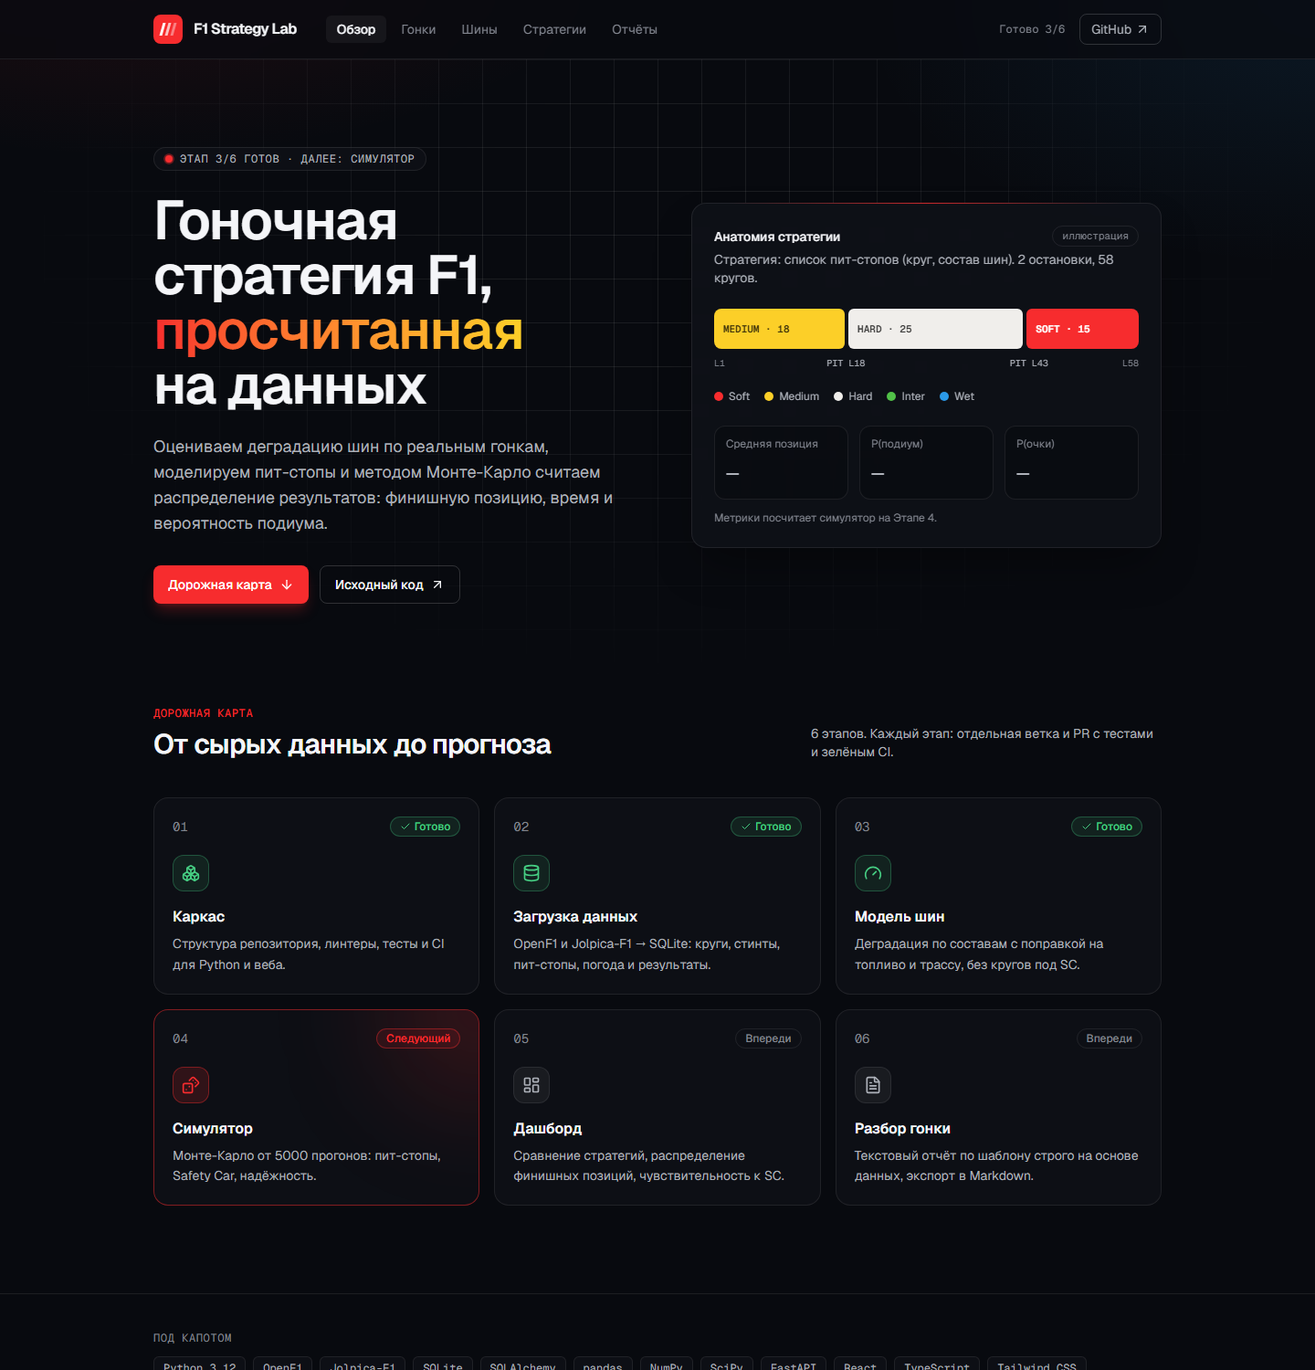
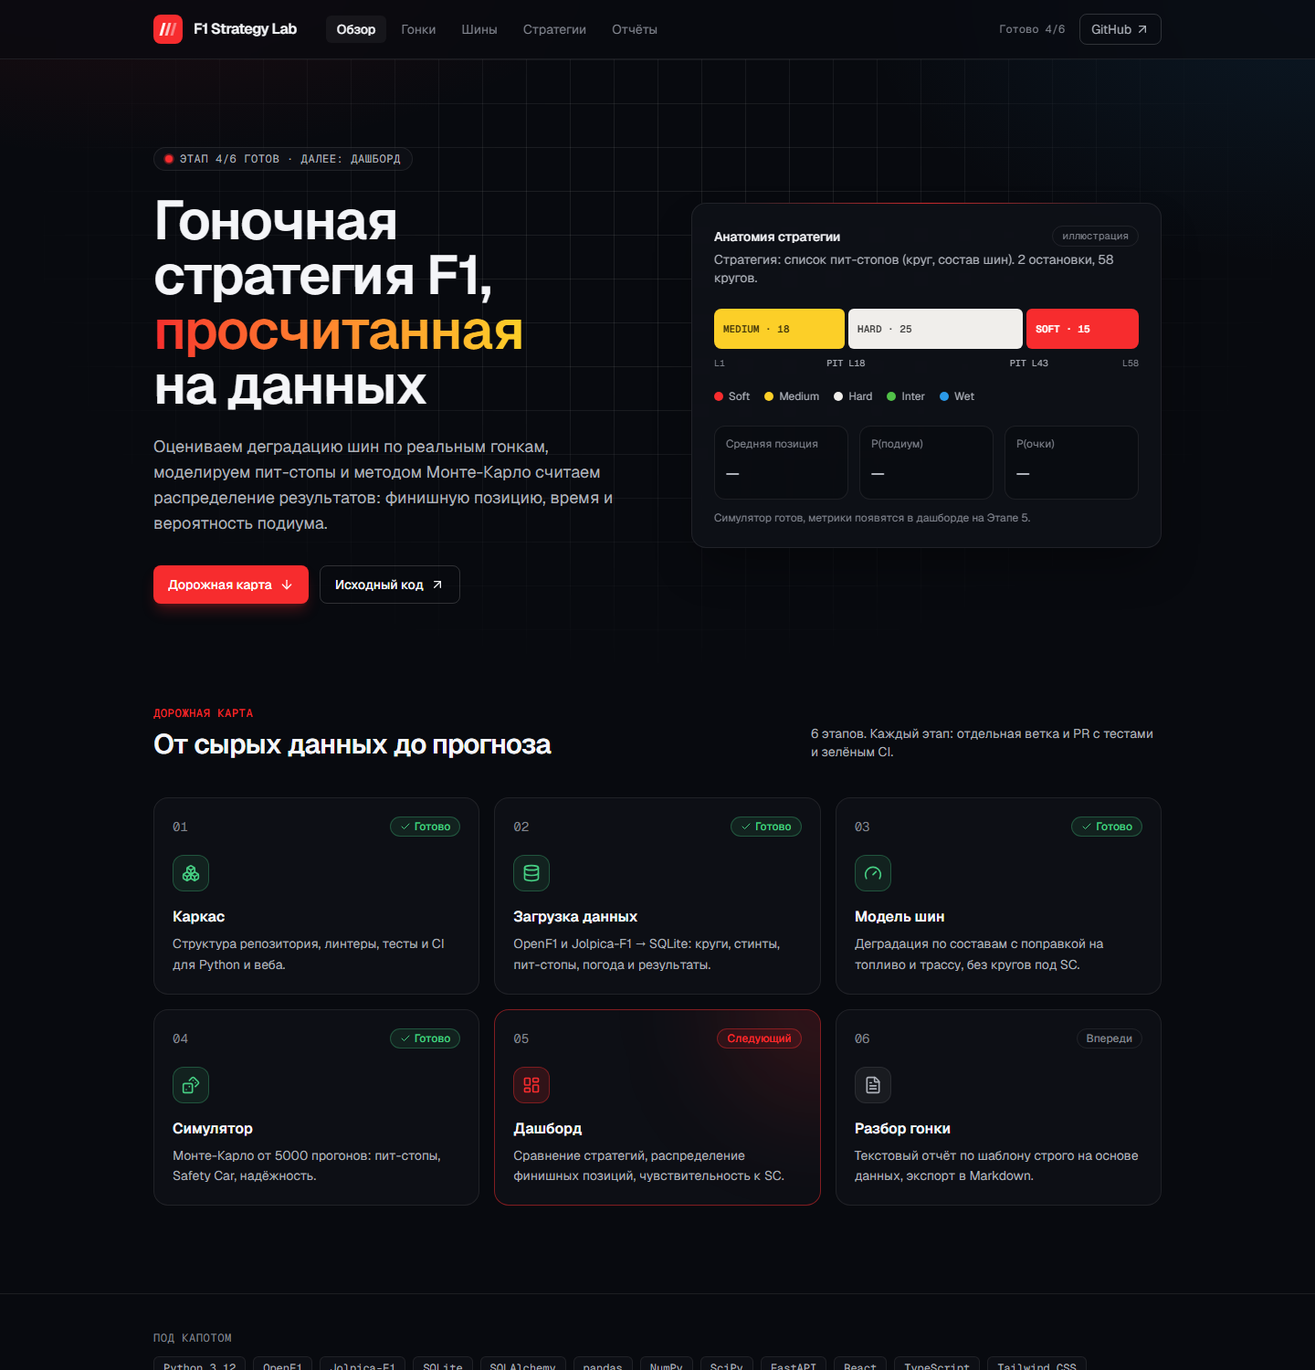
docs: assumptions, simulator report, README and CHANGELOG for stage 4, bump to 0.4.0
docs/assumptions.md lists every simplification of the simulator with its number and source. docs/sim holds the generated 2025 backtest (simulator MAE 2.48 vs 2.77 for the grid, Spearman on par), the race-craft search table and a strategy comparison example. README: simulator commands and results, qualifying table, schema migrations; the source quirks list is back under 'Data'.

diff --git a/src/f1lab/__init__.py b/src/f1lab/__init__.py
@@ -1,3 +1,3 @@
 """f1-strategy-lab: F1 race strategy simulator."""
 
-__version__ = "0.3.0"
+__version__ = "0.4.0"

diff --git a/docs/assumptions.md b/docs/assumptions.md
@@ -1,0 +1,68 @@
+# Допущения симулятора
+
+Симулятор гонки (`f1lab.sim`) — упрощённая модель. Здесь перечислены все упрощения: какие числа
+взяты из данных и откуда, а какие приняты как допущения. Числа ниже получены на калибровочных сезонах
+2023–2024 (`CALIBRATION_SEASONS`). Проверка вне выборки идёт на 2025 году, результаты в
+[sim/backtest.md](sim/backtest.md).
+
+## Что откуда берётся
+
+| Что | Значение | Источник |
+|---|---|---|
+| Темп пилота в гонке | 0,088 с/круг на позицию в квалификации | регрессия уровня пилота (модель шин) на позицию в квалификации; позиция объясняет темп лучше, чем разрыв во времени (R² 0,52 против 0,29) |
+| «Форма дня» | σ = 0,48 с/круг, на всю гонку | остаток той же регрессии |
+| Шум круга | σ остатков модели трассы (около 0,5–0,6 с) | модель шин |
+| Шины и топливо | деградация по составу, сдвиги, топливо | [модель шин](models/tyre_model.md): сжатие наклонов, ограничение возраста |
+| Потеря на старте | 0,67 с на позицию на решётке | время первого круга против стартовой позиции |
+| Потеря на пит-стопе | выборка трассы, медиана 22,5 с | in-lap + out-lap минус те же круги у непитовавшихся; сухо, зелёный флаг, без 1% крайних значений |
+| Пит-стоп под SC / VSC | × 0,74 / × 0,91 | отношение медиан потерь |
+| Safety Car | 15% гонок на 1-м круге; далее около 0,008 на круг, по трассе | сообщения дирекции; частоты трасс сжаты к общей с весом двух гонок |
+| VSC | 2% на 1-м круге; около 0,007 на круг | так же |
+| Длина SC / VSC | выборка, медиана 5 / 1 круг | длительность периода, делённая на медианный круг гонки |
+| Сход | 11,9% машин за гонку; круг схода — из исторического распределения | статусы в протоколах; дисквалификация не считается сходом |
+| Порог обгона | 1,5 с/круг | подбор по финишным позициям 2023–2024 в заранее заданном диапазоне 0–2 с ([sim/race_craft.md](sim/race_craft.md)) |
+| Грязный воздух | 1,0 с/круг в пределах 1 с от машины впереди | тот же подбор; значение у верхней границы правдоподобного диапазона 0–1 с |
+
+## Упрощения
+
+**Темп**
+- Позиция в квалификации переводится в темп линейно и одинаково для всех команд. Разницу между
+  квалификационным и гоночным темпом конкретной машины модель не знает. Это главный источник ошибки
+  (σ «формы дня» 0,48 с/круг).
+- Шум круга независим от круга к кругу; «форма» постоянна в течение гонки.
+- Для состава, на котором на трассе не было истории, берутся медианные параметры всех трасс.
+
+**Стратегия**
+- Стратегия — заранее заданный план (круги пит-стопов и составы). Реакции по ходу гонки нет:
+  машина не заезжает под сейфти-кар по случаю и не отвечает на андеркат.
+- В бэктесте используются стратегии, которые пилоты реально выбрали. В них уже сидят реакции на
+  события той гонки, это знание задним числом.
+- Пилоту, сошедшему до того, как стала видна его стратегия, даётся самая частая стратегия финишёров
+  этой гонки.
+
+**События гонки**
+- Только сухие гонки: гонки с промежуточной или дождевой резиной не симулируются.
+- Красный флаг не симулируется. В реальных стратегиях смена шин под красным флагом бесплатна.
+- Частота SC/VSC после первого круга постоянна по ходу гонки; длина периода общая для всех трасс.
+  Сходы не вызывают сейфти-кар (события независимы).
+- Под SC и VSC все машины едут одинаково, порядок не меняется (кроме пит-стопов). После SC отрывы
+  сжимаются до 0,8 с (допущение), после VSC не сжимаются.
+- Вероятность схода одинакова для всех машин и команд.
+- Нет круговых, синих флагов, командной тактики и ошибок пилотов сверх шума.
+
+**Обгоны**
+- Машина обгоняет, только если на этом круге быстрее впередиидущей минимум на 1,5 с; иначе она
+  финиширует круг в 0,3 с позади (допущение) и теряет 1,0 с в грязном воздухе.
+- Оба числа — эффективные параметры, подобранные под финишные позиции, а не физические измерения.
+  Позиций по кругам в данных нет, поэтому эти параметры определены слабо: ошибка почти не меняется
+  во всём диапазоне.
+
+## Оценка
+
+- Сравнивается средняя позиция в симуляции при условии финиша с реальным местом классифицированных
+  пилотов (Spearman и MAE). Базовая модель — «финиш = позиция на решётке».
+- Вне выборки (2025) симулятор точнее решётки по MAE позиции (2,48 против 2,77), а по ранговой
+  корреляции с ней наравне (0,763). Общий порядок он предсказывает не лучше решётки; его польза в
+  распределениях, вероятностях и сравнении стратегий при одинаковых условиях.
+- Стратегии одного пилота сравниваются на общих случайных числах (те же SC, сходы и шум), поэтому
+  интервал разницы узкий даже при большом разбросе самих исходов.

diff --git a/docs/sim/backtest.md b/docs/sim/backtest.md
@@ -1,0 +1,55 @@
+# Симулятор: бэктест
+
+> Сгенерировано командой `python -m f1lab.sim backtest`, вручную не редактировать.
+> Метод и допущения: [../assumptions.md](../assumptions.md).
+
+Сезоны теста: 2025. Калибровка: 2023, 2024. Прогонов на гонку: 5000, seed 20261021. Обгон: преимущество от 1.5 с/круг, грязный воздух 1.0 с/круг.
+
+Для каждой сухой гонки симулятор знает квалификацию, решётку и стратегии, которые пилоты реально выбрали. Сравнивается средняя позиция в симуляции с реальным финишем классифицированных пилотов; базовая модель - «финиш = позиция на решётке».
+
+## Итог
+
+| модель | Spearman | MAE, позиций |
+|---|---|---|
+| симулятор | 0.763 | 2.477 |
+| финиш = решётка | 0.763 | 2.766 |
+
+Гонок: 21; симулятор точнее решётки по MAE в 13.
+
+![Бэктест трёх гонок](backtest_races.png)
+
+![Ошибка по гонкам](backtest_scores.png)
+
+## По гонкам
+
+| race | spearman | grid_spearman | mae | grid_mae |
+|---|---|---|---|---|
+| Chinese Grand Prix 2025 | 0.753 | 0.688 | 2.413 | 4.000 |
+| Japanese Grand Prix 2025 | 0.944 | 0.964 | 1.889 | 0.900 |
+| Bahrain Grand Prix 2025 | 0.825 | 0.798 | 2.420 | 2.722 |
+| Saudi Arabian Grand Prix 2025 | 0.948 | 0.944 | 1.453 | 1.889 |
+| Miami Grand Prix 2025 | 0.853 | 0.879 | 2.131 | 2.312 |
+| Emilia Romagna Grand Prix 2025 | 0.742 | 0.668 | 2.823 | 3.556 |
+| Monaco Grand Prix 2025 | 0.930 | 0.872 | 1.377 | 2.222 |
+| Spanish Grand Prix 2025 | 0.725 | 0.784 | 2.572 | 2.471 |
+| Canadian Grand Prix 2025 | 0.432 | 0.736 | 3.793 | 2.944 |
+| Austrian Grand Prix 2025 | 0.853 | 0.824 | 1.790 | 2.250 |
+| Hungarian Grand Prix 2025 | 0.874 | 0.904 | 1.960 | 1.947 |
+| Dutch Grand Prix 2025 | 0.259 | 0.199 | 3.837 | 5.222 |
+| Italian Grand Prix 2025 | 0.913 | 0.841 | 1.976 | 2.167 |
+| Azerbaijan Grand Prix 2025 | 0.867 | 0.877 | 2.291 | 2.158 |
+| Singapore Grand Prix 2025 | 0.839 | 0.824 | 2.574 | 2.300 |
+| United States Grand Prix 2025 | 0.856 | 0.840 | 2.275 | 2.474 |
+| Mexico City Grand Prix 2025 | 0.801 | 0.828 | 2.449 | 3.118 |
+| São Paulo Grand Prix 2025 | 0.674 | 0.684 | 2.634 | 2.529 |
+| Las Vegas Grand Prix 2025 | 0.439 | 0.393 | 3.786 | 4.800 |
+| Qatar Grand Prix 2025 | 0.734 | 0.707 | 2.183 | 3.500 |
+| Abu Dhabi Grand Prix 2025 | 0.762 | 0.774 | 3.382 | 2.600 |
+
+## Пропущенные гонки
+
+| race_id | причина |
+|---|---|
+| 202501 | Australian Grand Prix: ['INTERMEDIATE'] tyres used; the simulator is dry-only |
+| 202512 | British Grand Prix: ['INTERMEDIATE'] tyres used; the simulator is dry-only |
+| 202513 | Belgian Grand Prix: ['INTERMEDIATE'] tyres used; the simulator is dry-only |

diff --git a/docs/sim/race_craft.md b/docs/sim/race_craft.md
@@ -1,0 +1,38 @@
+# Симулятор: подбор параметров обгона
+
+> Сгенерировано командой `python -m f1lab.sim race-craft`, вручную не редактировать.
+
+Гонки калибровки (2023, 2024), 500 прогонов на гонку, диапазоны заданы заранее как физически правдоподобные. Лучшая пара по MAE: порог обгона **1.5 с/круг**, грязный воздух **1.0 с/круг**.
+
+| overtake_delta_s | dirty_air_penalty_s | races | spearman | grid_spearman | mae | grid_mae | races_better_than_grid |
+|---|---|---|---|---|---|---|---|
+| 1.500 | 1.000 | 40.000 | 0.769 | 0.735 | 2.511 | 2.910 | 32.000 |
+| 1.500 | 0.800 | 40.000 | 0.770 | 0.735 | 2.517 | 2.910 | 32.000 |
+| 1.500 | 0.600 | 40.000 | 0.772 | 0.735 | 2.519 | 2.910 | 32.000 |
+| 1.000 | 1.000 | 40.000 | 0.773 | 0.735 | 2.525 | 2.910 | 30.000 |
+| 1.000 | 0.800 | 40.000 | 0.773 | 0.735 | 2.529 | 2.910 | 30.000 |
+| 1.500 | 0.400 | 40.000 | 0.772 | 0.735 | 2.529 | 2.910 | 31.000 |
+| 2.000 | 1.000 | 40.000 | 0.764 | 0.735 | 2.531 | 2.910 | 32.000 |
+| 1.500 | 0.200 | 40.000 | 0.774 | 0.735 | 2.531 | 2.910 | 30.000 |
+| 2.000 | 0.800 | 40.000 | 0.763 | 0.735 | 2.535 | 2.910 | 32.000 |
+| 2.000 | 0.200 | 40.000 | 0.764 | 0.735 | 2.537 | 2.910 | 32.000 |
+| 1.000 | 0.600 | 40.000 | 0.770 | 0.735 | 2.538 | 2.910 | 30.000 |
+| 2.000 | 0.400 | 40.000 | 0.765 | 0.735 | 2.539 | 2.910 | 32.000 |
+| 0.500 | 1.000 | 40.000 | 0.772 | 0.735 | 2.539 | 2.910 | 30.000 |
+| 2.000 | 0.600 | 40.000 | 0.764 | 0.735 | 2.540 | 2.910 | 32.000 |
+| 1.500 | 0.000 | 40.000 | 0.772 | 0.735 | 2.540 | 2.910 | 30.000 |
+| 2.000 | 0.000 | 40.000 | 0.764 | 0.735 | 2.540 | 2.910 | 32.000 |
+| 0.000 | 1.000 | 40.000 | 0.770 | 0.735 | 2.541 | 2.910 | 30.000 |
+| 0.000 | 0.800 | 40.000 | 0.772 | 0.735 | 2.542 | 2.910 | 30.000 |
+| 0.500 | 0.800 | 40.000 | 0.770 | 0.735 | 2.543 | 2.910 | 30.000 |
+| 1.000 | 0.400 | 40.000 | 0.772 | 0.735 | 2.543 | 2.910 | 30.000 |
+| 0.500 | 0.600 | 40.000 | 0.770 | 0.735 | 2.548 | 2.910 | 30.000 |
+| 0.000 | 0.600 | 40.000 | 0.770 | 0.735 | 2.549 | 2.910 | 30.000 |
+| 1.000 | 0.200 | 40.000 | 0.771 | 0.735 | 2.550 | 2.910 | 30.000 |
+| 0.500 | 0.400 | 40.000 | 0.770 | 0.735 | 2.554 | 2.910 | 30.000 |
+| 0.000 | 0.400 | 40.000 | 0.771 | 0.735 | 2.554 | 2.910 | 30.000 |
+| 1.000 | 0.000 | 40.000 | 0.771 | 0.735 | 2.556 | 2.910 | 30.000 |
+| 0.500 | 0.200 | 40.000 | 0.771 | 0.735 | 2.559 | 2.910 | 30.000 |
+| 0.000 | 0.200 | 40.000 | 0.771 | 0.735 | 2.559 | 2.910 | 30.000 |
+| 0.500 | 0.000 | 40.000 | 0.770 | 0.735 | 2.562 | 2.910 | 28.000 |
+| 0.000 | 0.000 | 40.000 | 0.771 | 0.735 | 2.562 | 2.910 | 29.000 |

diff --git a/CHANGELOG.md b/CHANGELOG.md
@@ -5,6 +5,34 @@
 
 ## [Unreleased]
 
+## [0.4.0] - 2026-10-22
+
+Этап 4: симулятор гонки.
+
+### Добавлено
+
+- Таблица `qualifying` (позиция, Q1–Q3) и её загрузка из Jolpica; схема версии 2 с миграцией на месте:
+  старые базы обновляются сами, без перезагрузки данных.
+- Стратегии: нотация `S3-15-H-38-M`, проверка правил (два сухих состава, пит-стопы внутри дистанции),
+  восстановление реальных стратегий из стинтов; смена шин под красным флагом бесплатна.
+- Калибровка по 2023–2024: темп по позиции в квалификации и «форма дня», потеря на старте, потери на
+  пит-стопе относительно поля (и скидка под SC/VSC), частота и длина SC/VSC по трассам, сходы.
+- Векторный движок Монте-Карло (5000 гонок за доли секунды): всё поле, грязный воздух, порог обгона,
+  пит-стопы, SC/VSC с рестартом, сходы; общие случайные числа для честного сравнения стратегий.
+- Сводки с доверительными интервалами: средняя позиция, P(победа), P(подиум), P(очки), P(сход),
+  позиция при условии финиша; сравнение стратегий с парной разницей.
+- Бэктест на 2025 (вне выборки) против базовой модели «финиш = решётка»: MAE 2,48 против 2,77
+  позиции; подбор параметров обгона на 2023–2024 в заранее заданных правдоподобных диапазонах.
+- CLI `python -m f1lab.sim race | compare | backtest | race-craft`, графики, отчёты в `docs/sim`.
+- `docs/assumptions.md`: все упрощения симулятора с числами и источниками.
+
+### Изменено
+
+- Общий стиль графиков, Markdown-таблицы и консольный вывод вынесены в `f1lab.plotting`,
+  `f1lab.markdown`, `f1lab.console`.
+- README: исправлен порядок разделов (особенности источников снова в «Данных»).
+- Сайт: этап 4 отмечен готовым.
+
 ## [0.3.0] - 2026-10-21
 
 Этап 3: модель шин.
